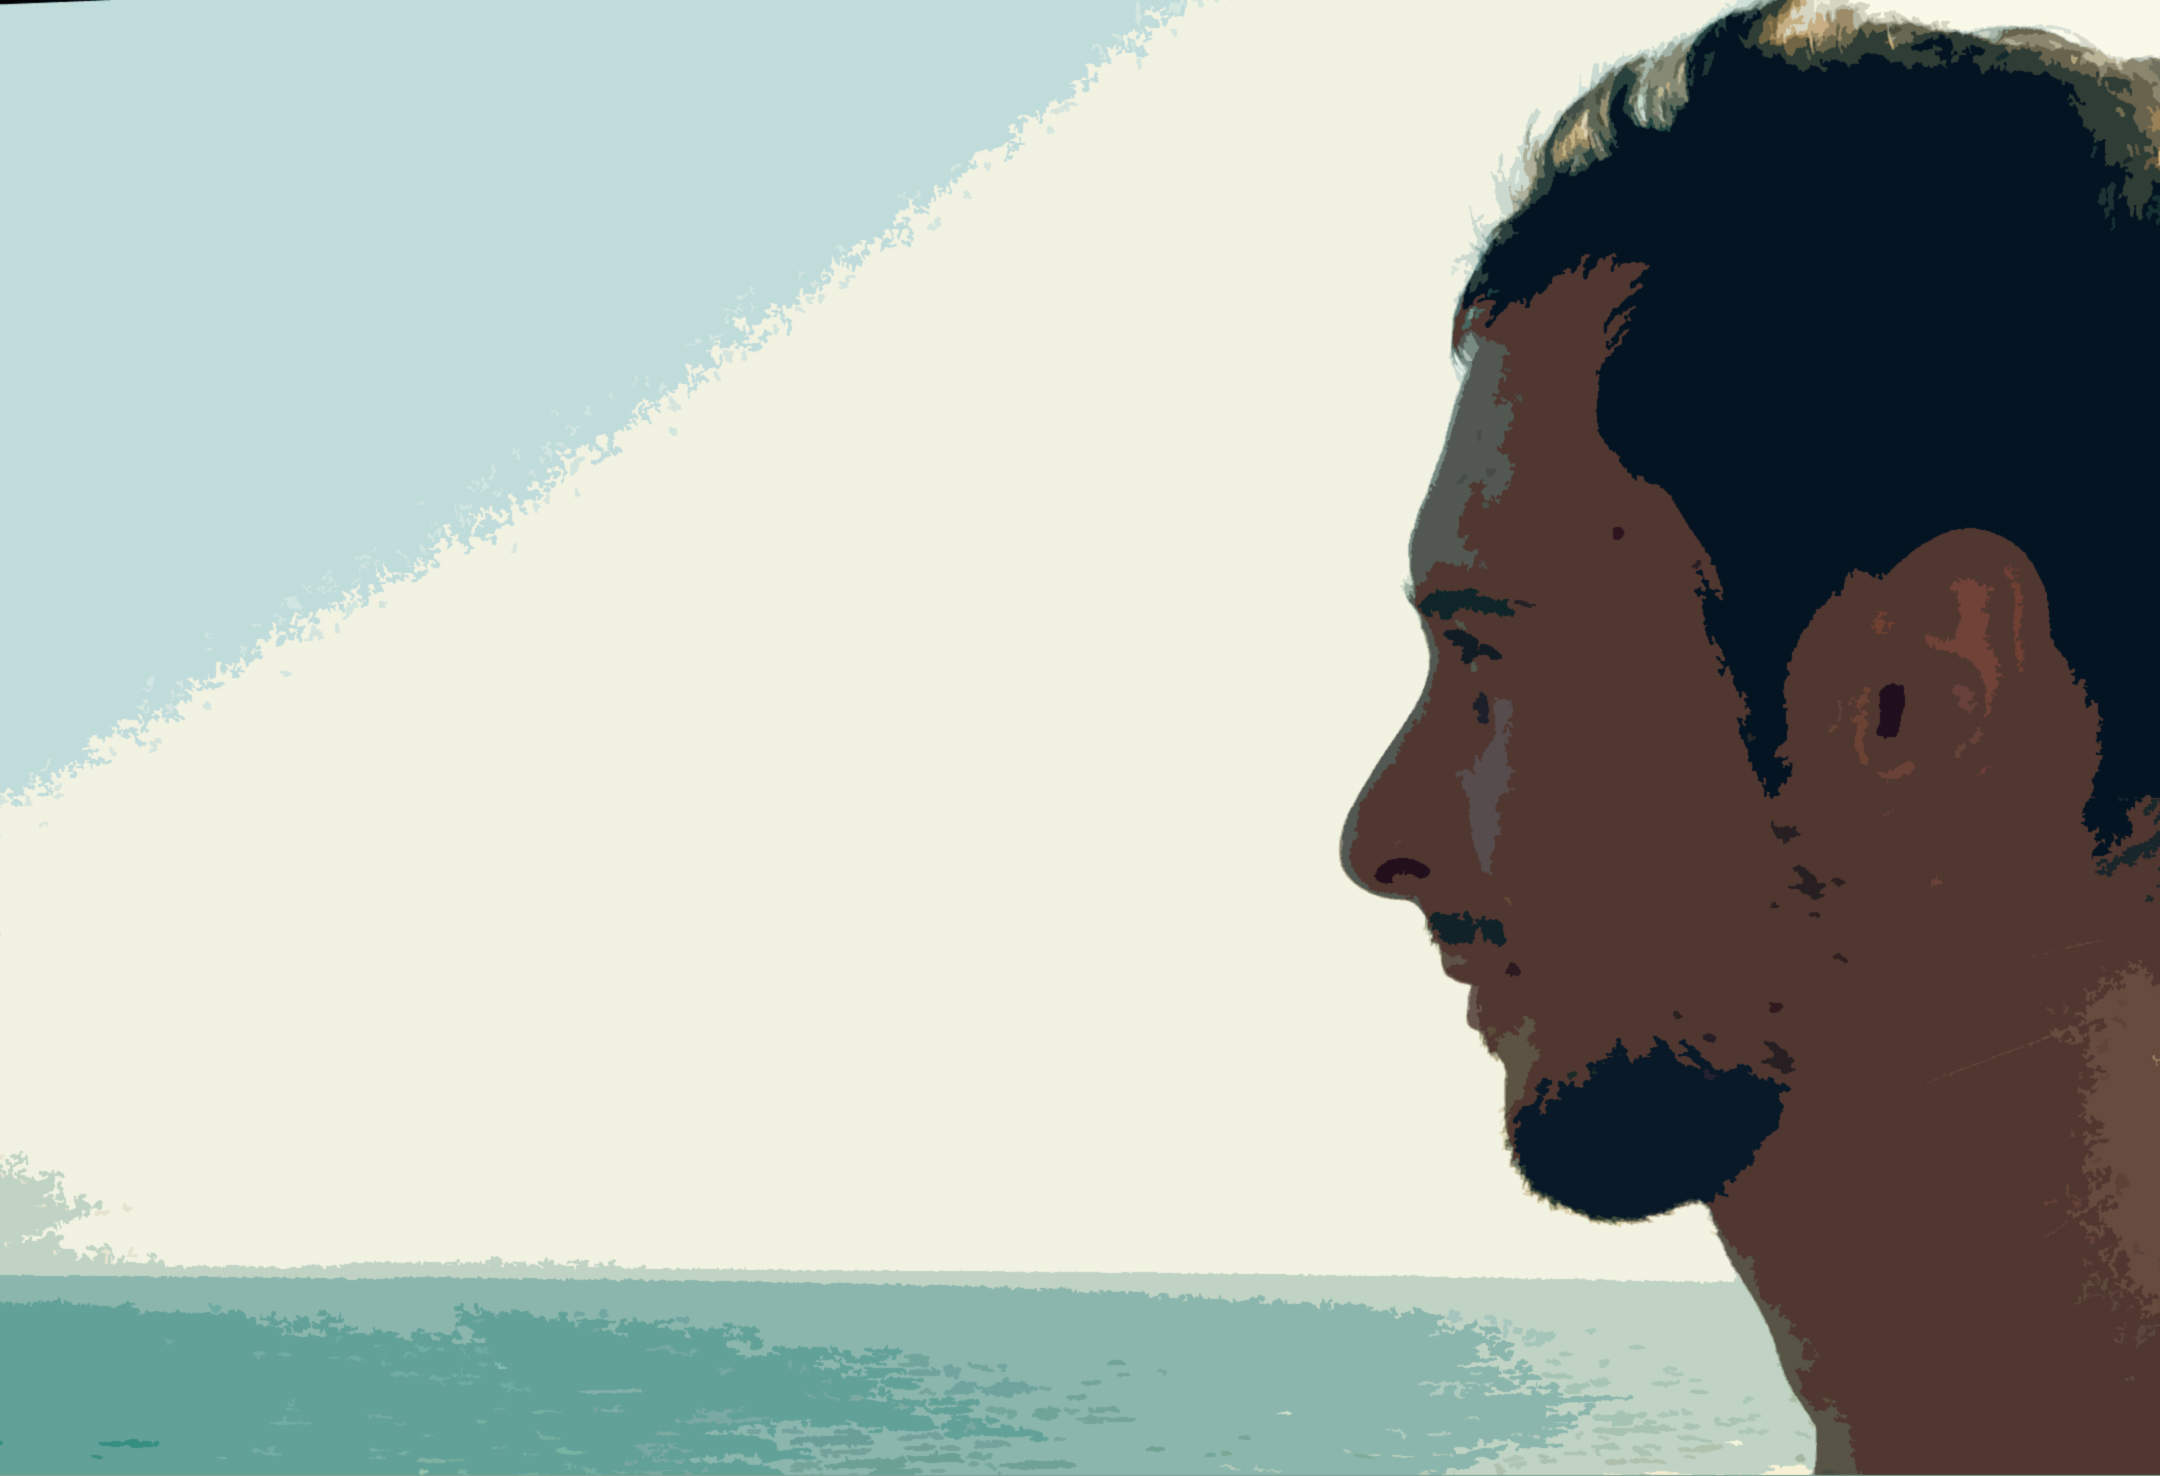
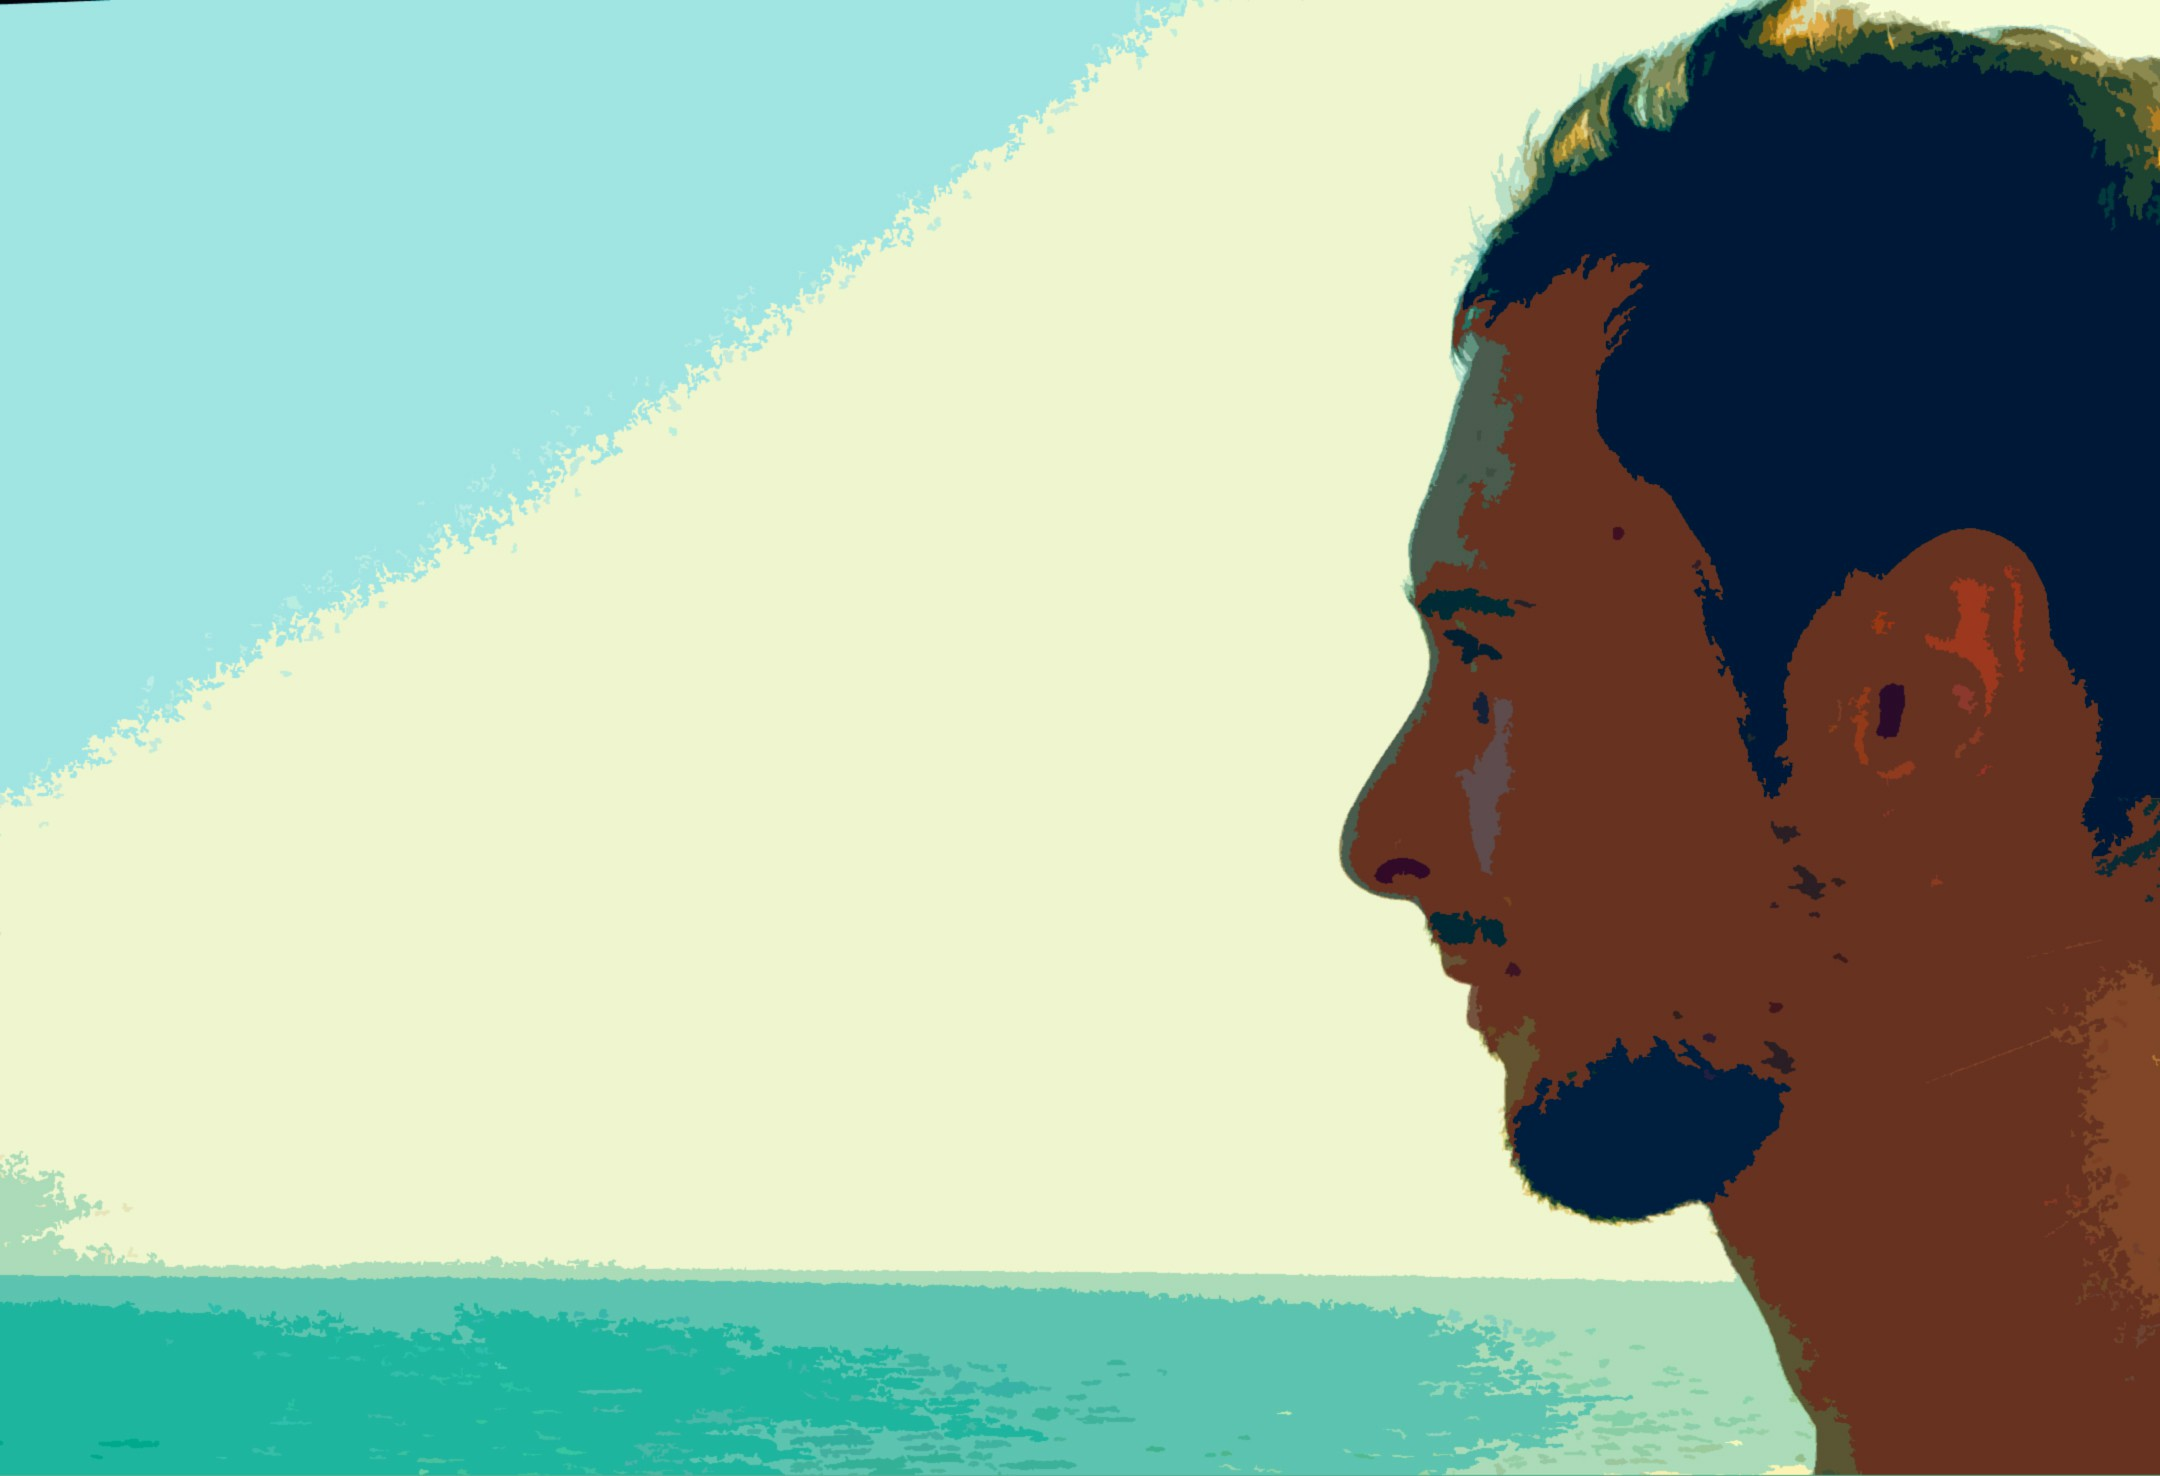
Update bg-filter image in header

diff --git a/sass/layout/_header.scss b/sass/layout/_header.scss
@@ -17,9 +17,21 @@
       to right bottom,
       rgba($color-primary-dark, .5),
       rgba($color-secondary-light, .3)),
-    url(../img/hero-filter.jpg);
+    url(../img/hero-filter-small.jpg);
     transition: opacity 1s;
     @include heroBgSettings;
+
+    @media only screen and (min-resolution: 192dpi) and (min-width: 37.5em),
+           only screen and (-webkit-min-device-pixel-ratio: 2) and (min-width: 37.5em),
+           only screen and (min-width: 125em)
+    {
+      background-image:
+        linear-gradient(
+          to right bottom,
+          rgba($color-primary-dark, .5),
+          rgba($color-secondary-light, .3)),
+        url(../img/hero-filter.jpg);
+    }
   }
 
   @media only screen and (min-resolution: 192dpi) and (min-width: 37.5em),
@@ -29,8 +41,8 @@
     background-image:
       linear-gradient(
         to right bottom,
-        rgba($color-primary-dark, 0.5),
-        rgba($color-secondary-light, 0.3)),
+        rgba($color-primary-dark, .5),
+        rgba($color-secondary-light, .3)),
       url(../img/hero.jpg);
   }
 
